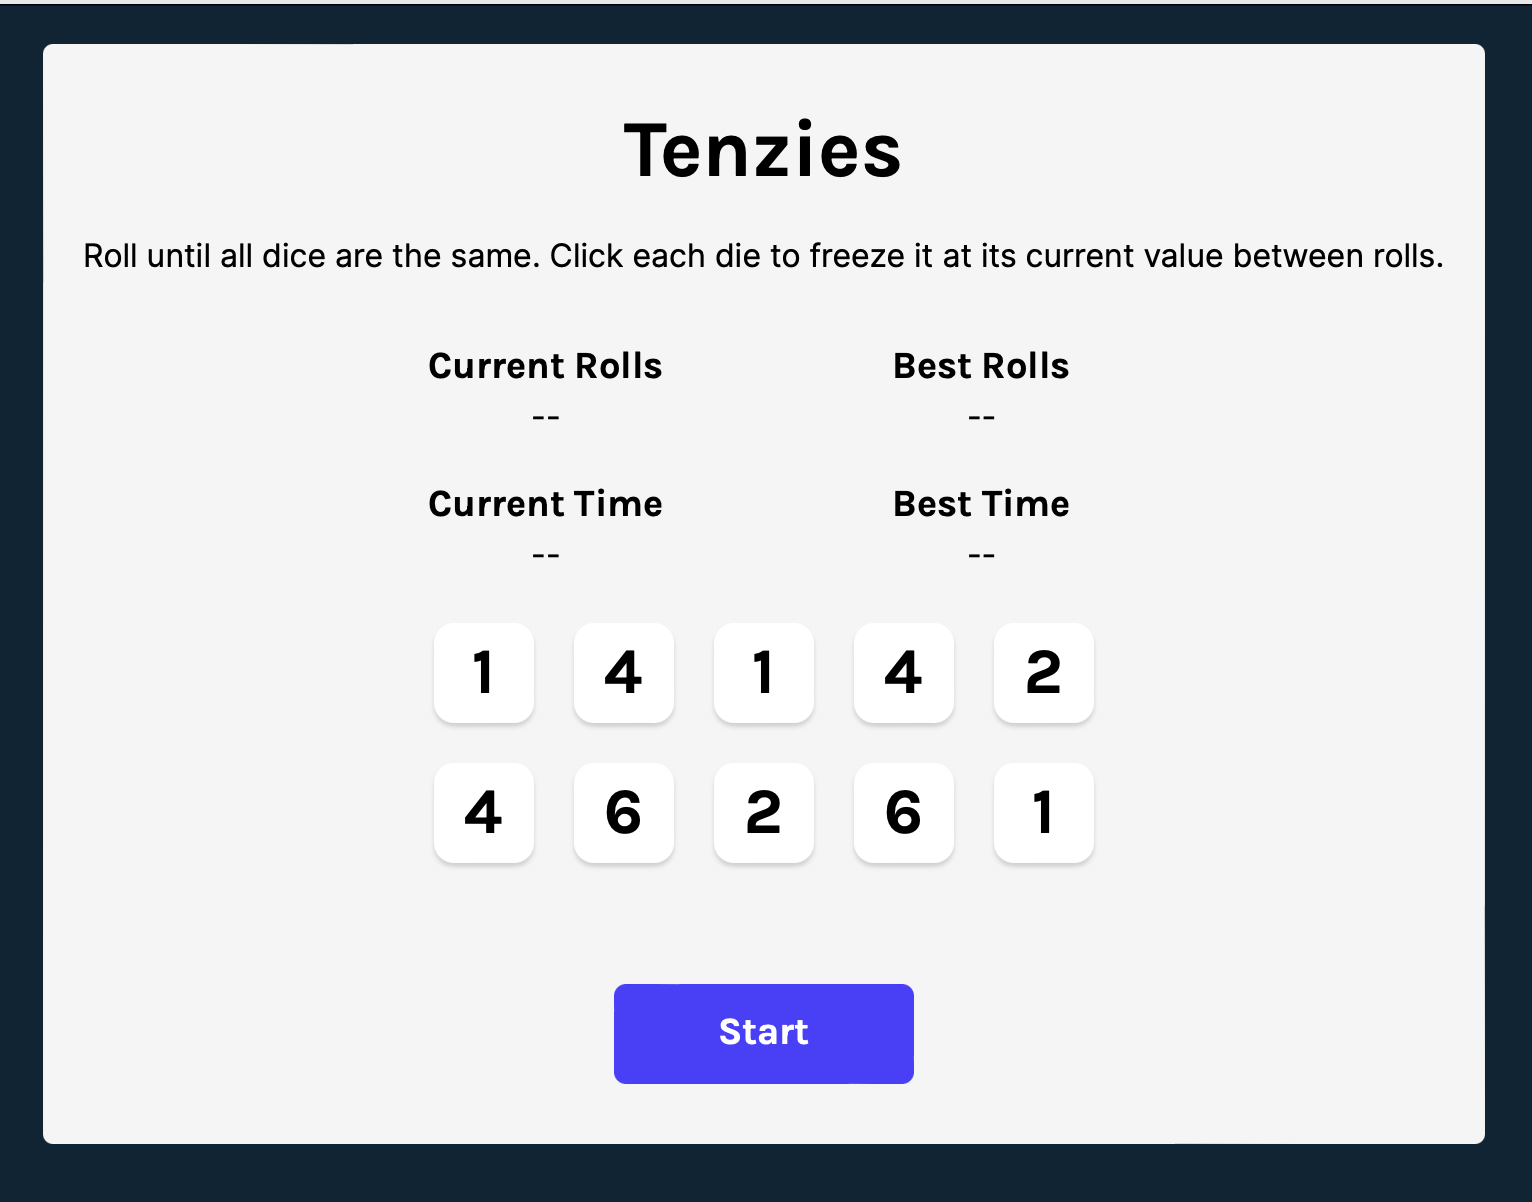
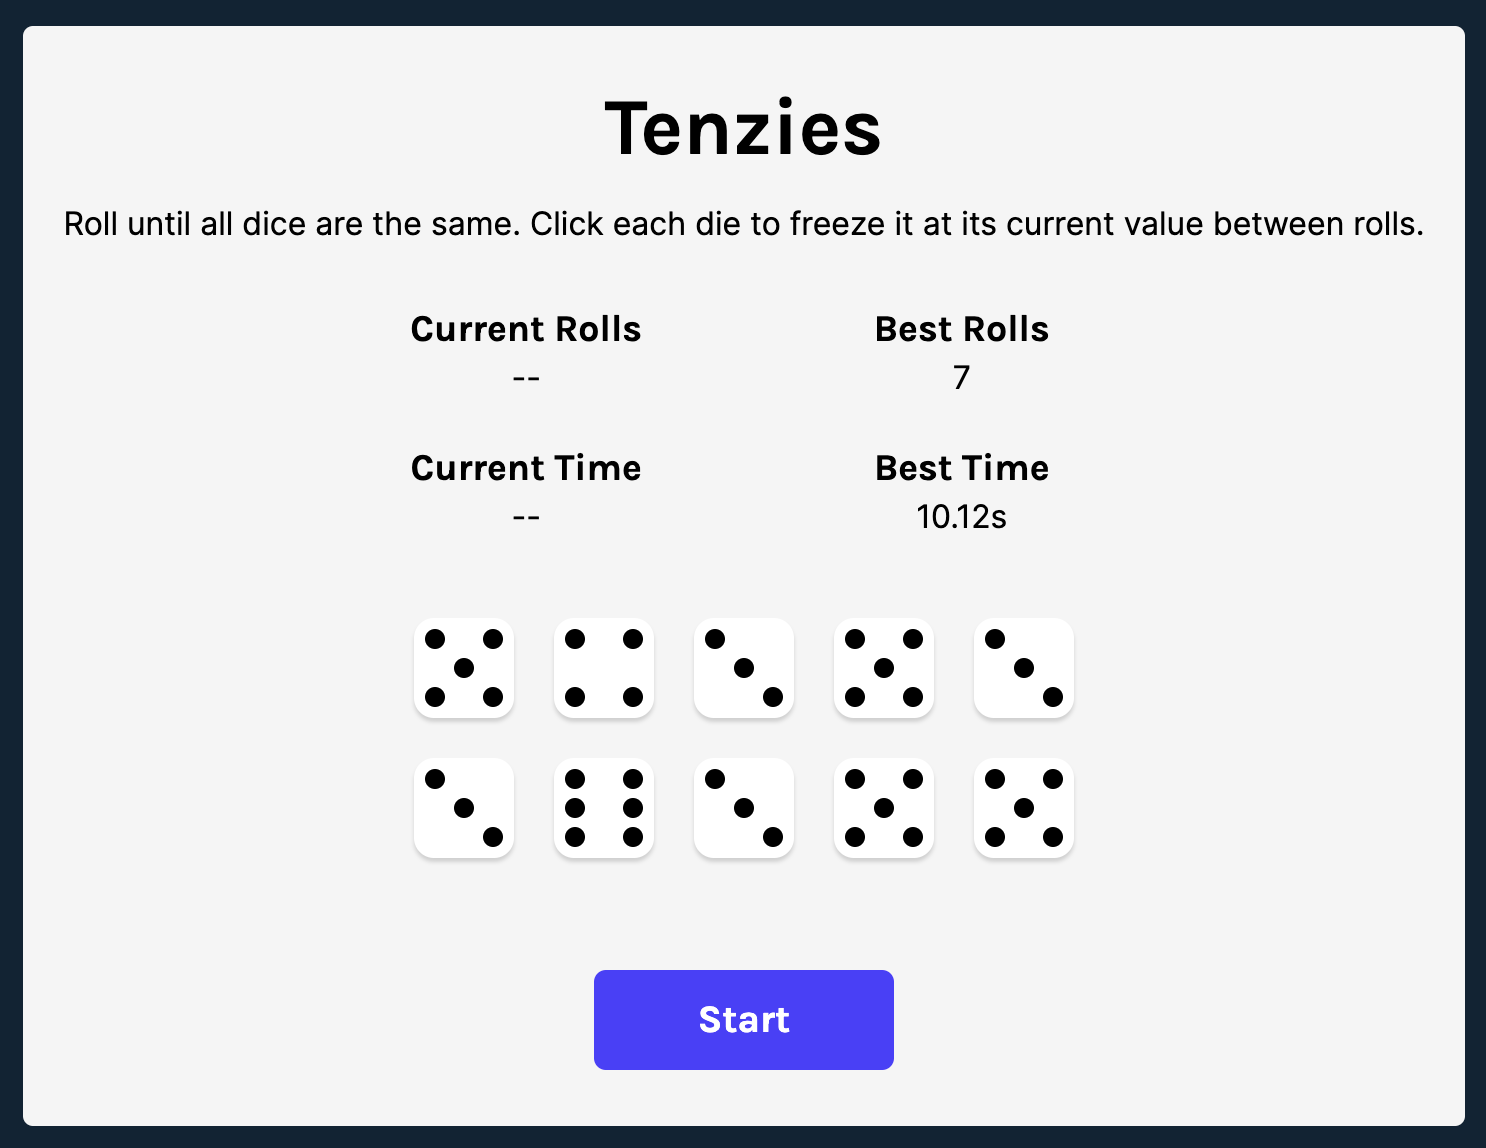
Update README

diff --git a/README.md b/README.md
@@ -51,5 +51,6 @@ You can try the game [here](https://tiffanychan614.github.io/React-Tenzies/).
 
 ## Future Improvements
 
-- --Replace the number on the dice with dots--
-- --Add inset shadow to the dice when they are being clicked--
+- ~~Replace the number on the dice with dots~~
+- ~~Add inset shadow to the dice when they are being clicked~~
+- Add a button for user to clear best record
